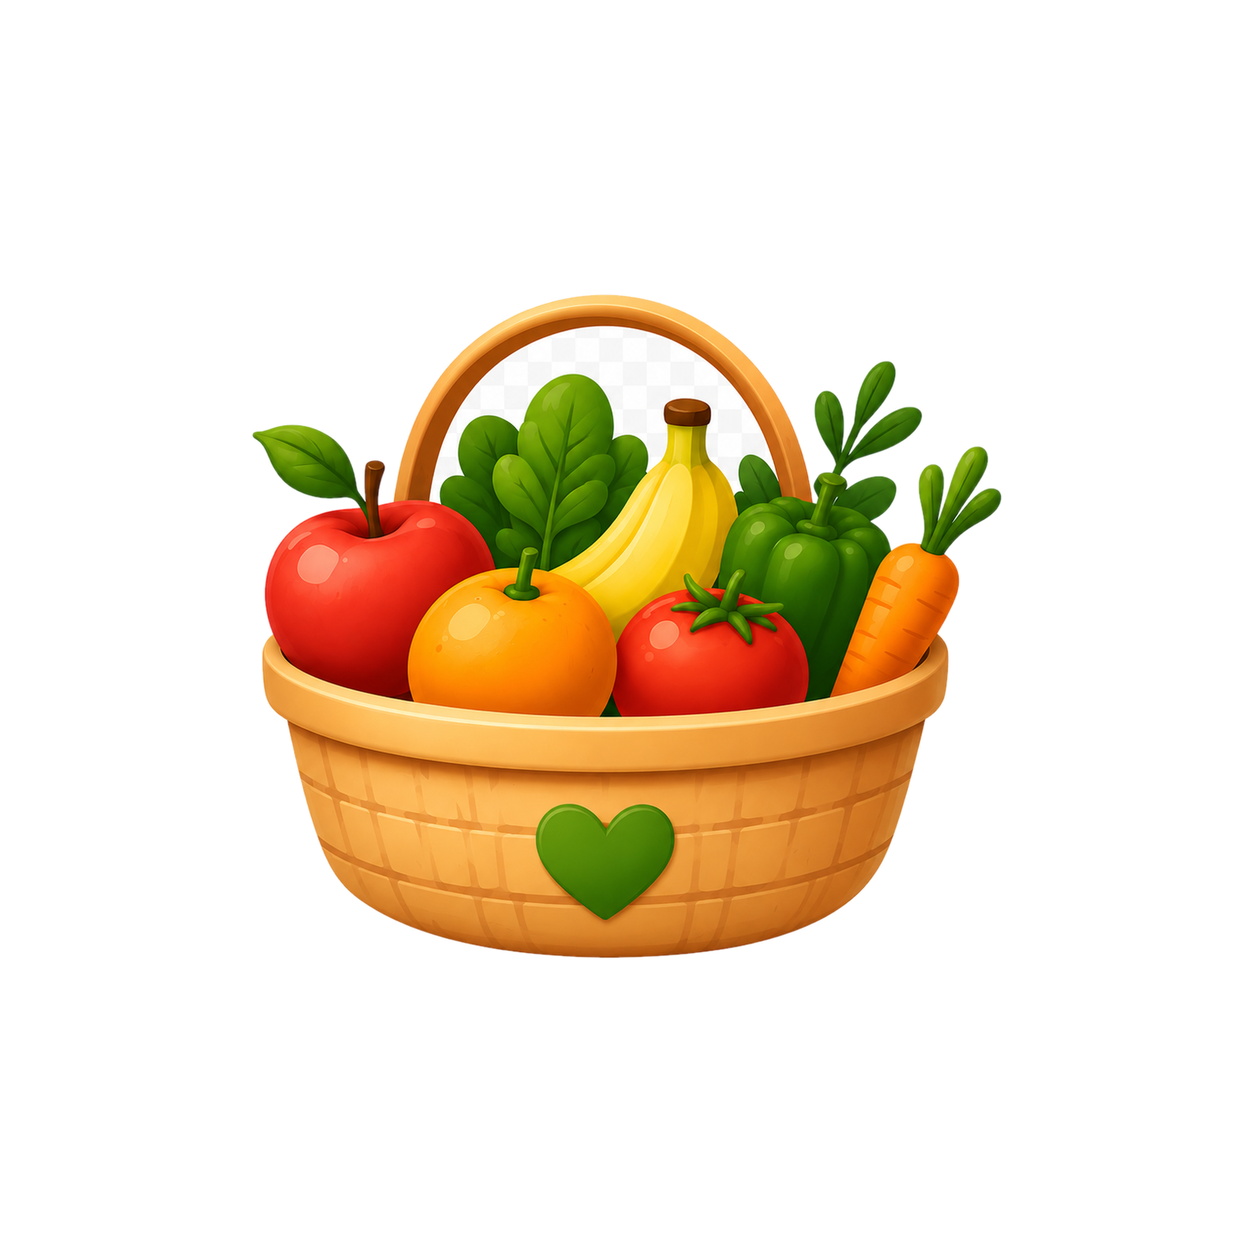
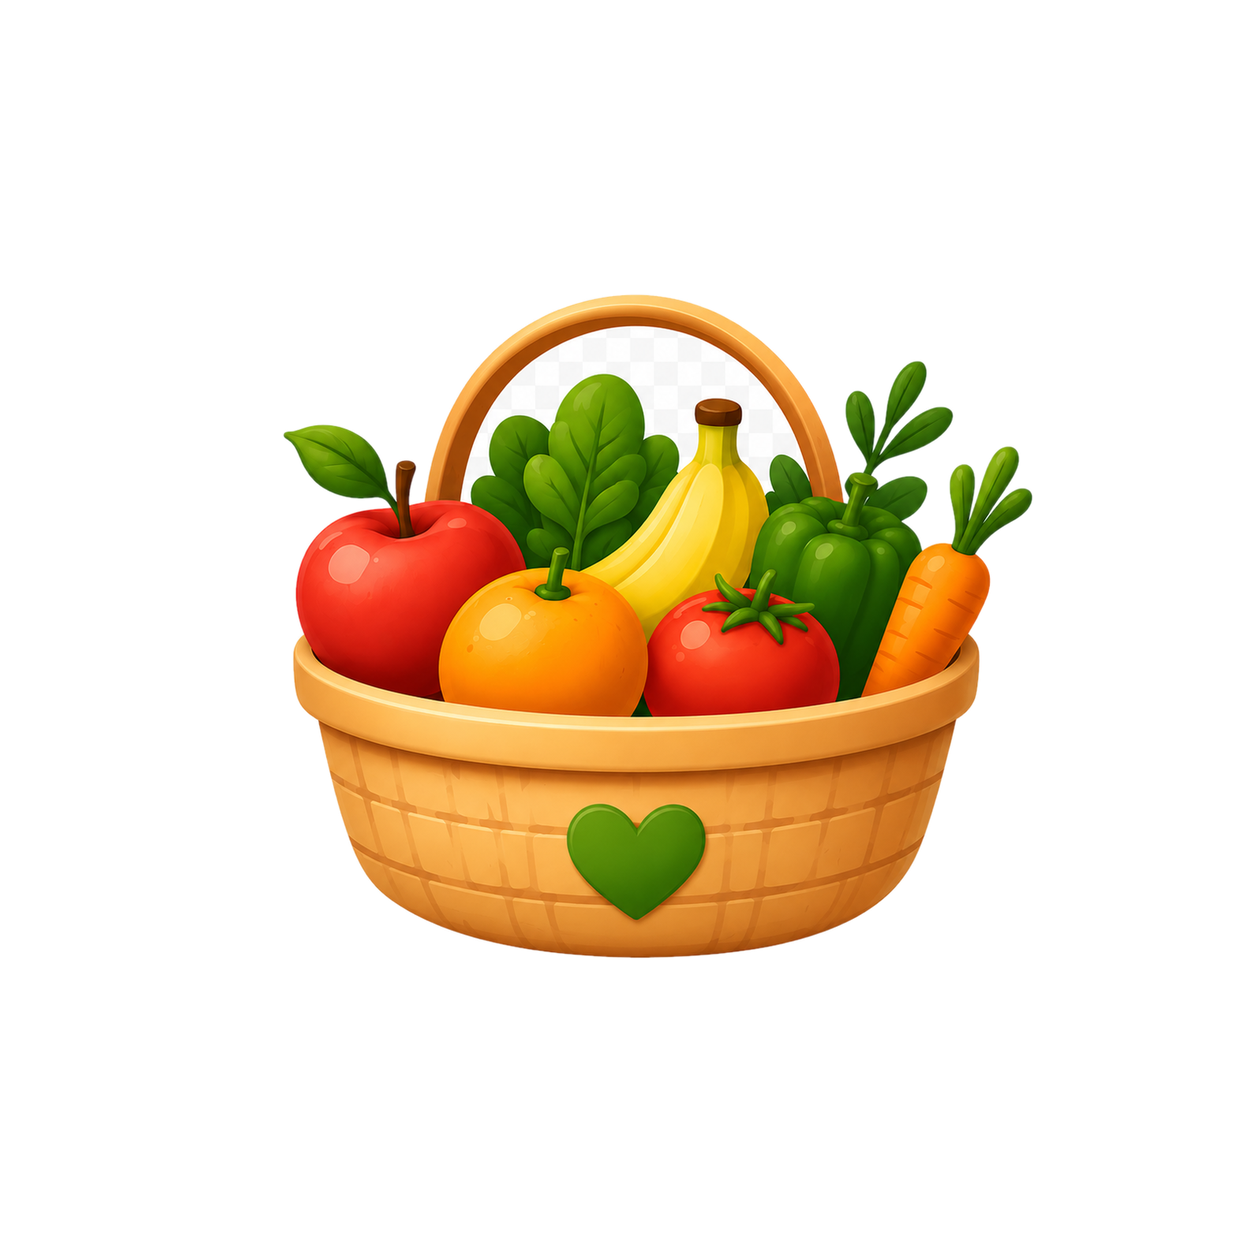
- Final version 1.0 push.

Changed region(s): [[0.1866, 0.2177, 0.8397, 0.7775]]

diff --git a/The_Grocery_App/Controls/ProBanner.xaml b/The_Grocery_App/Controls/ProBanner.xaml
@@ -33,7 +33,7 @@
                    VerticalOptions="Center" />
 
             <Label Grid.Column="1"
-                   Text="Unlock PRO — Remove Ads &amp; Unlimited Recipes"
+                   Text="Unlock PRO - Remove Ads &amp; Unlimited Recipes"
                    TextColor="#3D2A00"
                    FontSize="14"
                    FontAttributes="Bold"

diff --git a/The_Grocery_App/SplashScreenPage.xaml b/The_Grocery_App/SplashScreenPage.xaml
@@ -5,11 +5,9 @@
              Title="SplashScreenPage"
              Shell.NavBarIsVisible="False">
 
-    
 
-        <Image Source="splash.png"
+    <Image Source="splash.png"
                Aspect="AspectFill"/>
 
-   
 
 </ContentPage>

diff --git a/The_Grocery_App/UIShoppingItem.cs b/The_Grocery_App/UIShoppingItem.cs
@@ -187,7 +187,7 @@ namespace The_Grocery_App
             if (File.Exists(File_Path))
             {
                 File.Delete(File_Path);
-                await Application.Current!.Windows[0].Page!.DisplayAlertAsync("Error", "Shopping list deleted!", "OK");
+                await Application.Current!.Windows[0].Page!.DisplayAlertAsync("Error", "List deleted.", "OK");
             }
 
             //Save the new XML
@@ -207,7 +207,7 @@ namespace The_Grocery_App
             if (File.Exists(File_Path))
             {
                 File.Delete(File_Path);
-                await Application.Current!.Windows[0].Page!.DisplayAlertAsync("Error", "Recipe list deleted!", "OK");
+                await Application.Current!.Windows[0].Page!.DisplayAlertAsync("Error", "Recipe deleted.", "OK");
             }
 
             //Save the new XML

diff --git a/The_Grocery_App/Global.cs b/The_Grocery_App/Global.cs
@@ -69,7 +69,7 @@ namespace The_Grocery_App
 
         //Premium Trial variables
 
-        public const int Free_Recipes_Per_Day = 500;
+        public const int Free_Recipes_Per_Day = 3;
 
         public static int Recipes_Used_Today
         {
